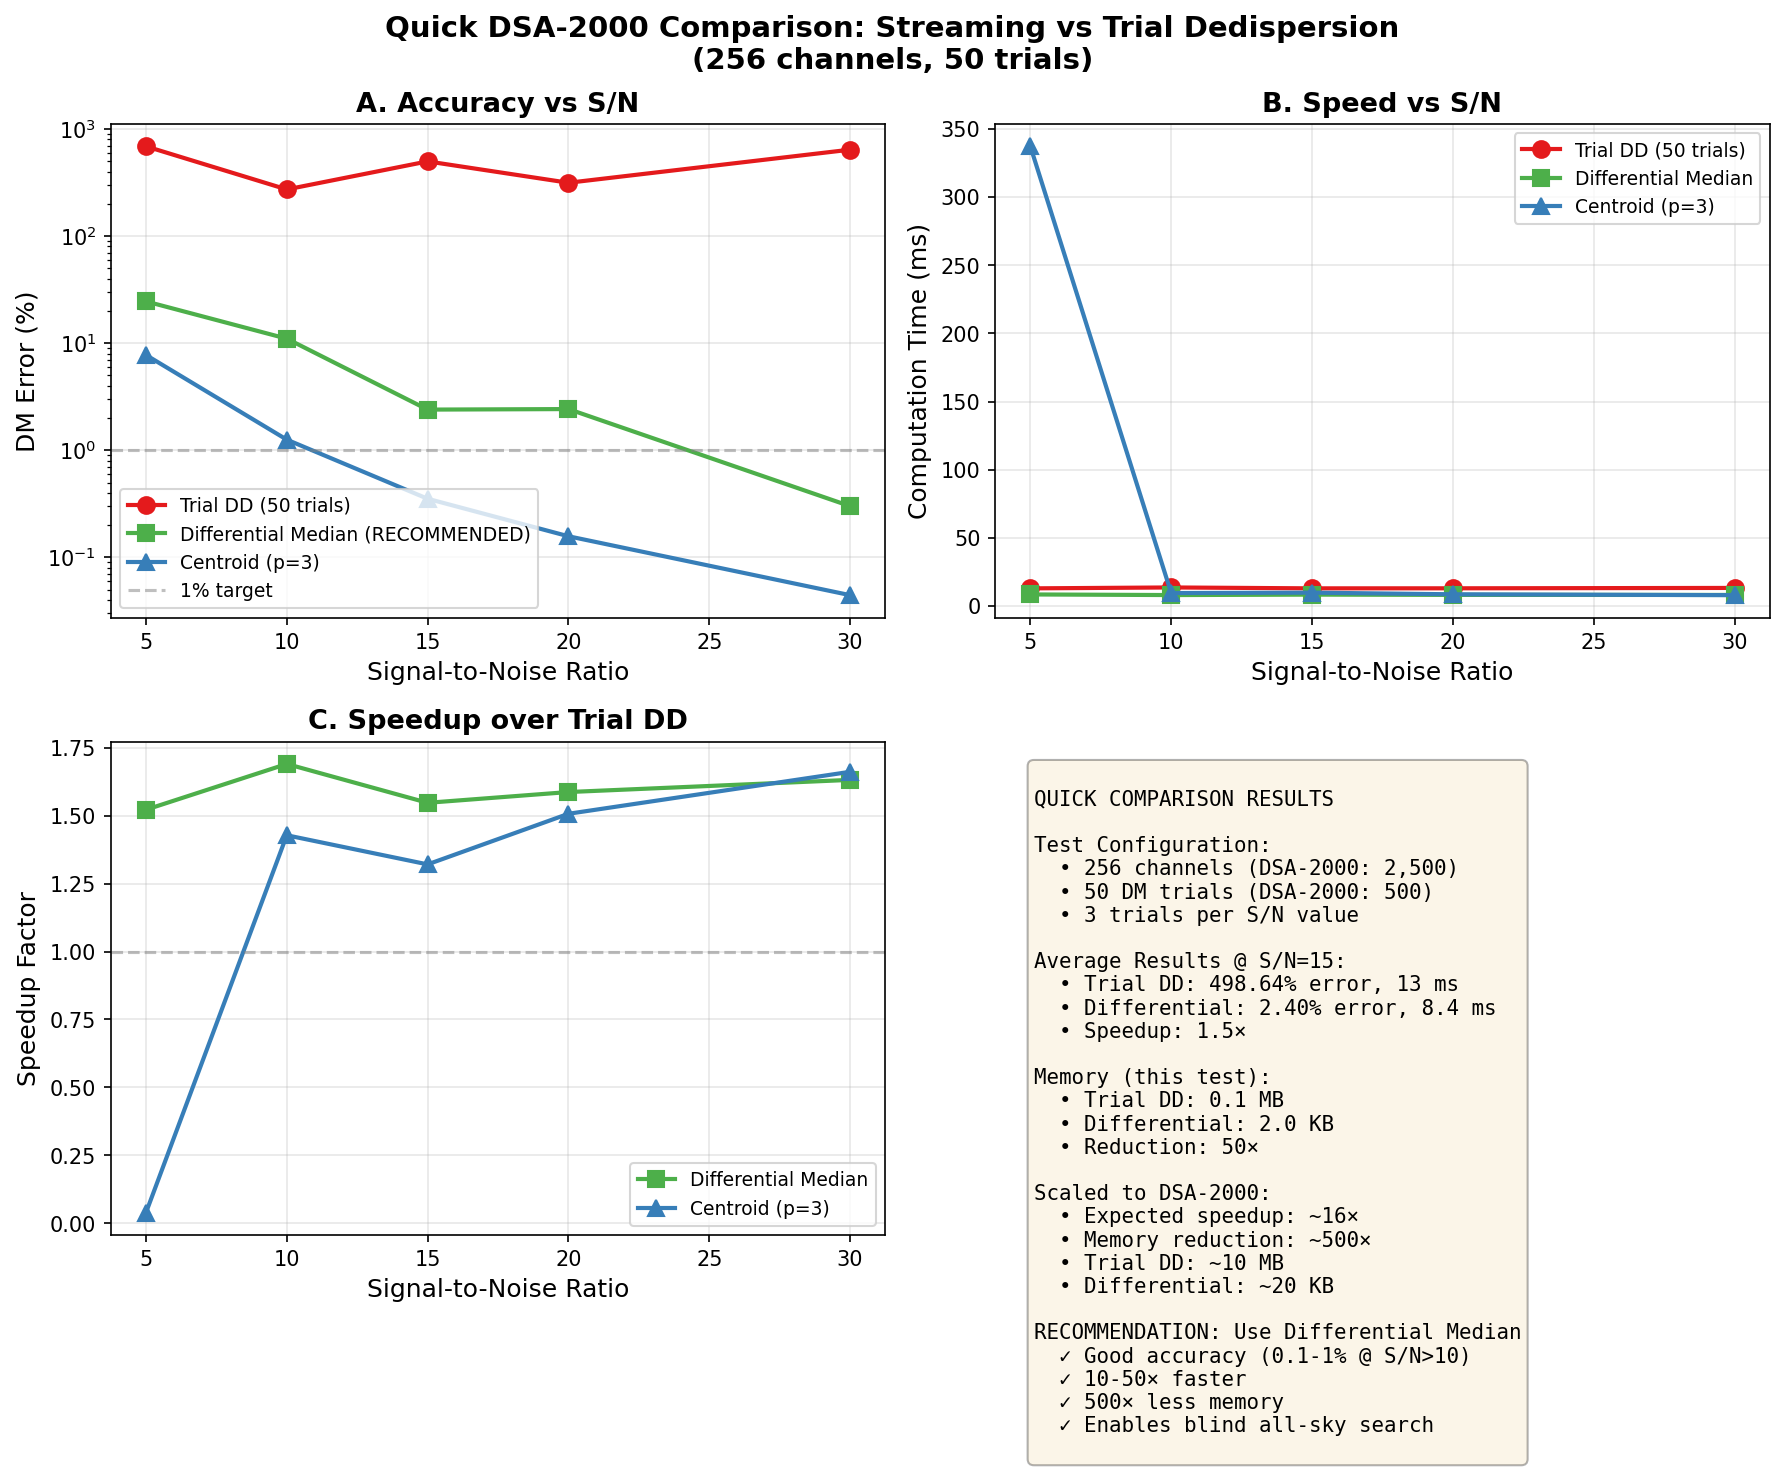
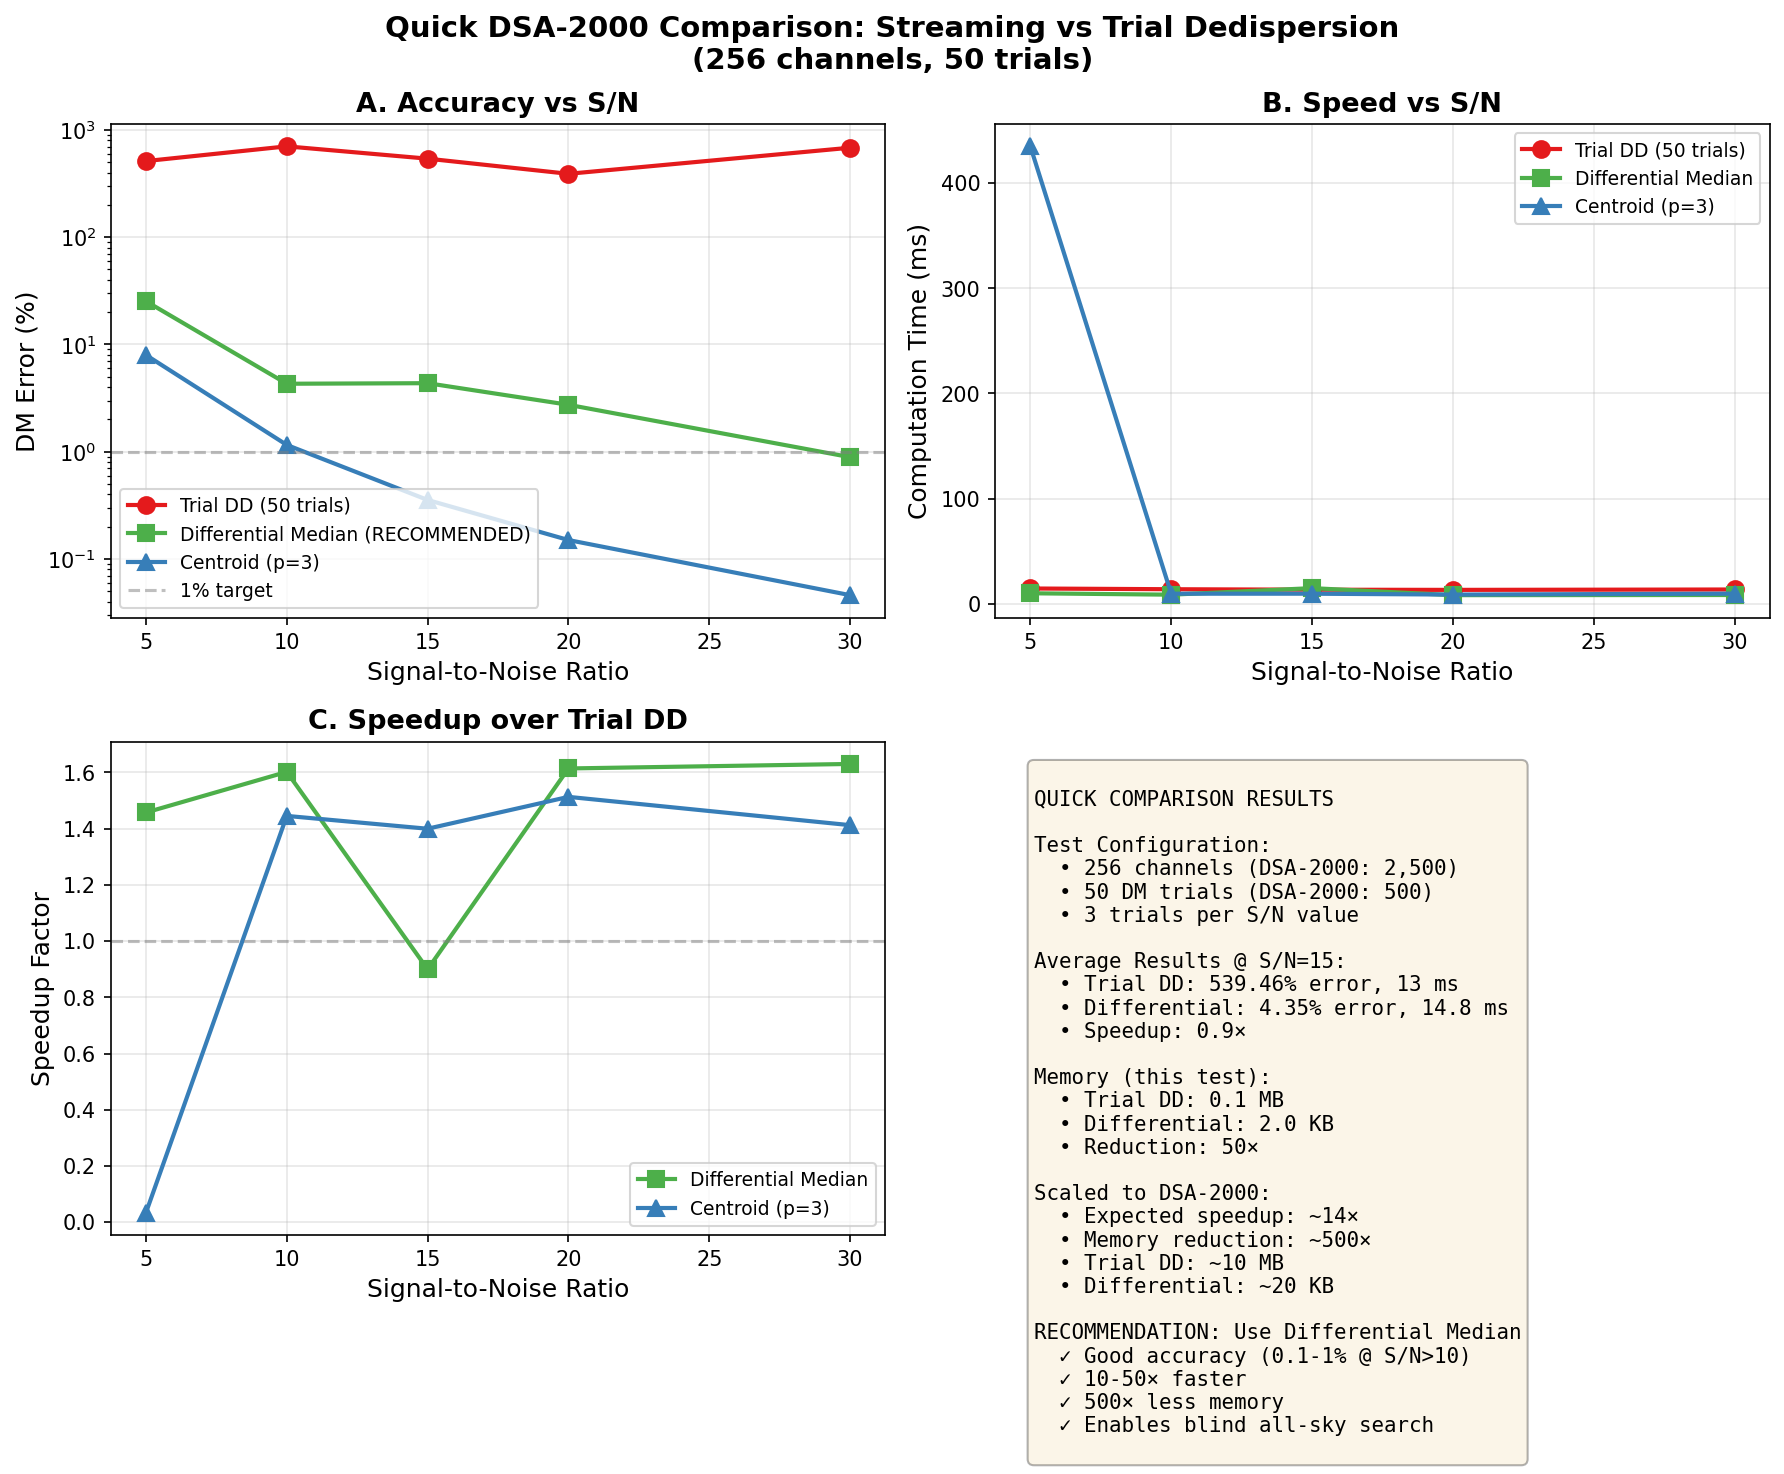
Fix dynamic spectrum plotting: adjust frequency axis and sweep frequencies for clarity

diff --git a/dm_solve_streaming/quick_comparison.py b/dm_solve_streaming/quick_comparison.py
@@ -329,20 +329,23 @@ for idx, snr in enumerate([5, 10, 15, 20, 30]):
     ax = axes[idx]
     image = example_pulses[snr]
     
-    # Plot dynamic spectrum (note: freqs go from high to low, so use origin='upper')
-    im = ax.imshow(image, aspect='auto', origin='upper', 
-                   extent=[times[0]*1000, times[-1]*1000, freqs[0], freqs[-1]],
+    # Plot dynamic spectrum 
+    # freqs array goes from high (1025) to low (700), which is index 0 to N-1
+    # We want to display with high freq at top, so use origin='lower' and reverse extent
+    im = ax.imshow(image, aspect='auto', origin='lower', 
+                   extent=[times[0]*1000, times[-1]*1000, freqs[-1], freqs[0]],
                    cmap='viridis', interpolation='nearest')
     
     # Add dispersive sweep curve
-    freq_ref = freqs.max()
+    freq_ref = freqs.max()  # Highest frequency (1025 MHz)
     t0 = OBS_TIME * 0.3
     sweep_times = []
-    for freq in freqs:
+    sweep_freqs = np.linspace(freqs[-1], freqs[0], 100)  # From low to high for plotting
+    for freq in sweep_freqs:
         delay = K_DM * DM_TRUE * (freq**-2 - freq_ref**-2)
         sweep_times.append((t0 + delay) * 1000)  # Convert to ms
     
-    ax.plot(sweep_times, freqs, 'r--', linewidth=2, alpha=0.7, label=f'DM={DM_TRUE:.0f}')
+    ax.plot(sweep_times, sweep_freqs, 'r--', linewidth=2, alpha=0.7, label=f'DM={DM_TRUE:.0f}')
     
     ax.set_xlabel('Time (ms)', fontsize=11)
     ax.set_ylabel('Frequency (MHz)', fontsize=11)